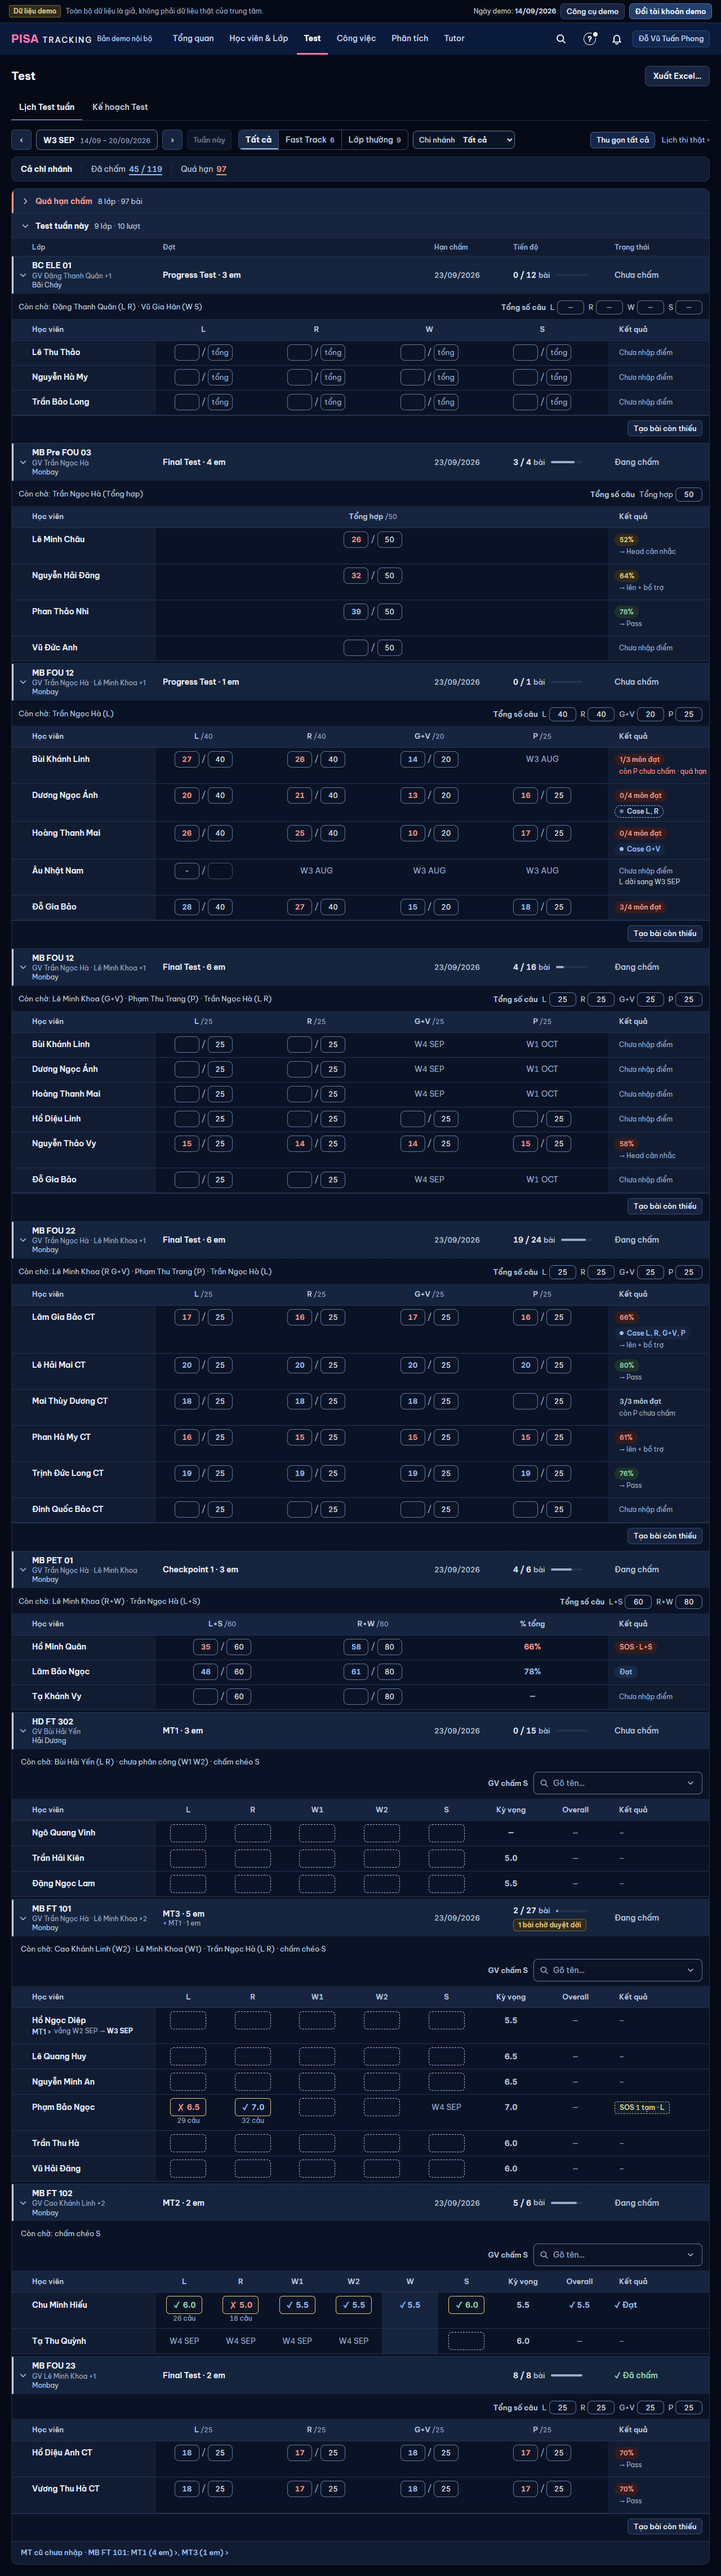
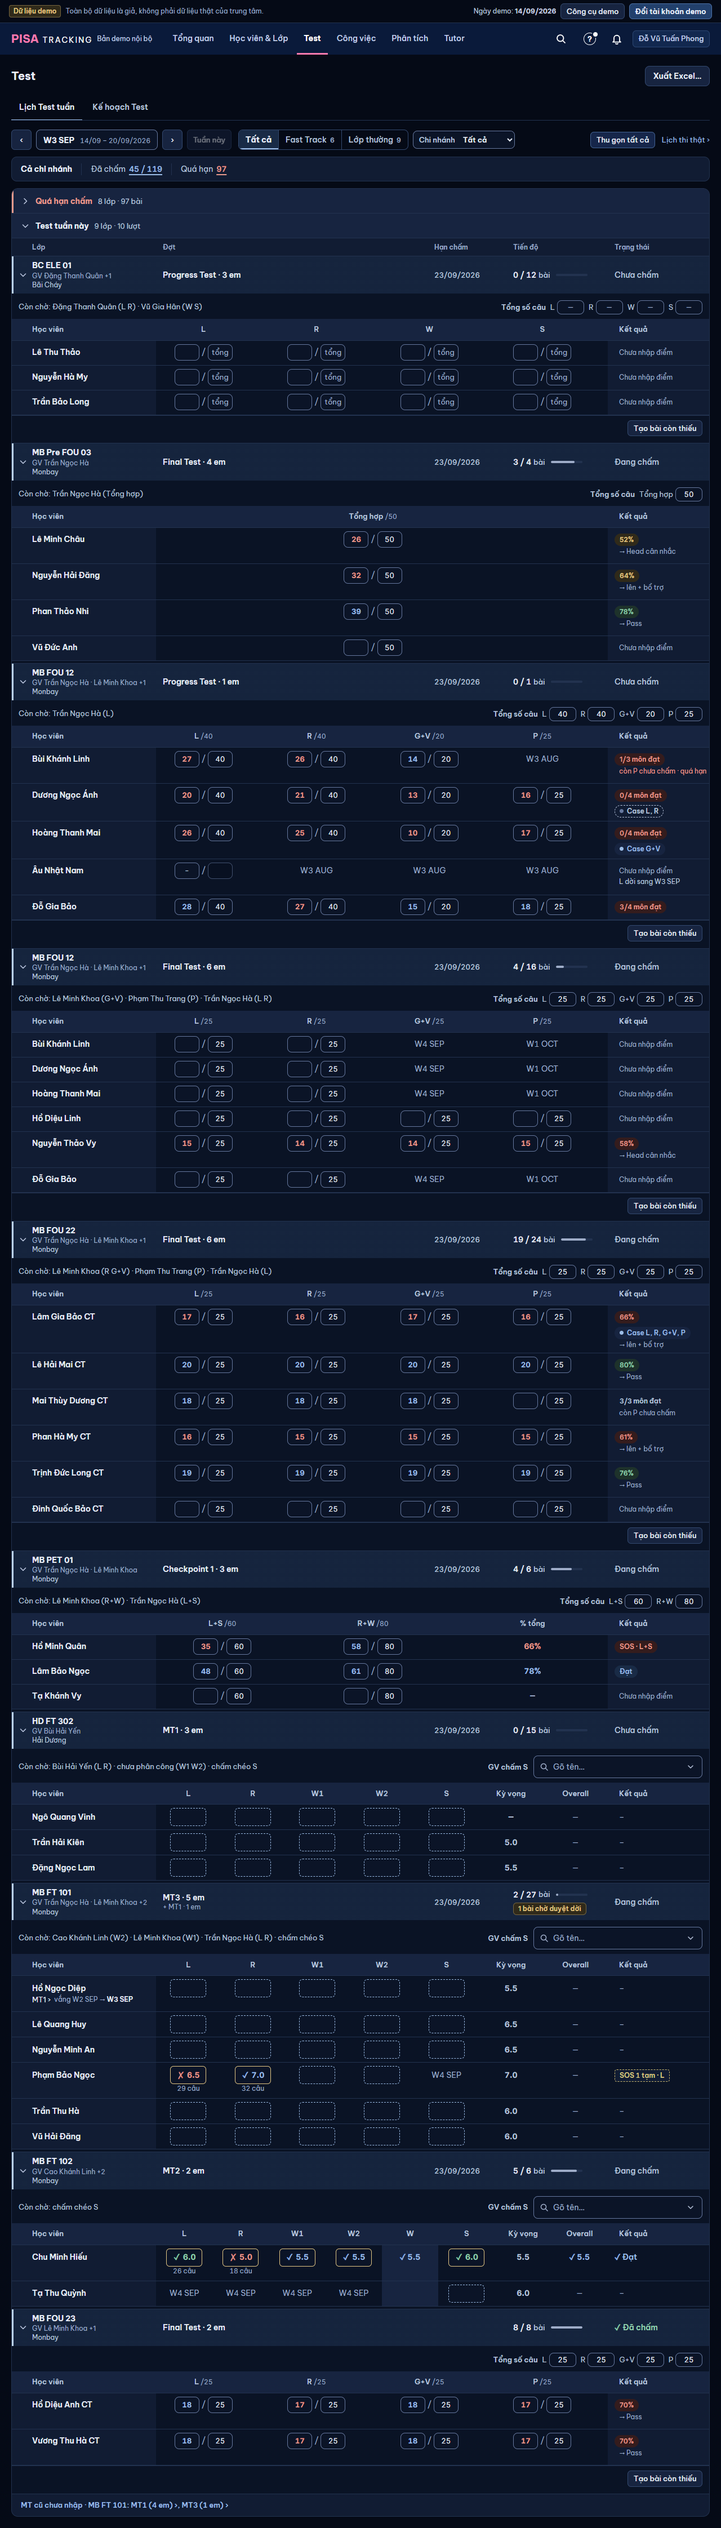
LUOI-1DONG: lưới FT — Còn chờ trái, GV chấm S phải cùng một dòng

Changed region(s): [[0.0, 0.0, 1.0, 0.9984], [0.8125, 0.0, 0.9688, 0.0624], [0.5625, 0.936, 0.625, 0.9672]]

diff --git a/web/src/modules/cham/LuoiFT.tsx b/web/src/modules/cham/LuoiFT.tsx
@@ -1,4 +1,4 @@
-import { useContext, useEffect, useState, type ReactNode } from 'react';
+import { Fragment, useContext, useEffect, useState, type ReactNode } from 'react';
 import { OTrongPanel } from '../../ui/LuoiTrongPanel.tsx';
 import { LOP_DA_LUU } from '../../ui/KhuonViec.tsx';
 import { Link } from 'react-router-dom';
@@ -105,10 +105,25 @@ const W_HINT = t('Band Writing = (Task 1 + Task 2 × 2) / 3, khi đủ hai task.
  * Lịch Test (PR-UX1 Q10): `gon` bỏ cột Trạng thái và Hạn (hàng lớp đã nói), bỏ cột MT khi cả lưới cùng một lượt;
  * `tuanDangXem` làm mờ ô thi tuần khác (`khacTuanFt`).
  */
-export function LuoiFT({ data, onReload, kn = null, hv = null, gon = false, tuanDangXem = null, hangMo = [], chiCot = null, anKetQua = false, sEx, the = false, onHet, gvCham, hienTuan = false }: {
+/** "Còn chờ: A (L R) · B (W S)": mỗi người một khối không ngắt — xuống dòng chỉ giữa hai người (dấu "·" đi theo người sau), không giữa "(W S)". */
+export const ChuConCho = ({ ds }: { ds: string }) => (
+  <>{t('Còn chờ: {ds}', { ds }).split(' · ').map((x, i, a) => <Fragment key={i}><span className="whitespace-nowrap">{i > 0 && '· '}{x}</span>{i < a.length - 1 && ' '}</Fragment>)}</>
+);
+
+/** Dòng công cụ lưới FT: trái "Còn chờ", phải (nguyên khối, hết chỗ thì cả khối xuống dưới) chú giải + ô "GV chấm S". */
+const ThanhGv = ({ conCho, phai, className }: { conCho: string; phai: ReactNode; className: string }) => (
+  <div className={`flex flex-wrap items-center gap-x-4 gap-y-1 px-3 ${className}`}>
+    {conCho && <span className="min-w-0 text-[13px] leading-snug text-dim"><ChuConCho ds={conCho} /></span>}
+    {phai && <span className="ml-auto inline-flex flex-wrap items-center justify-end gap-x-4 gap-y-1">{phai}</span>}
+  </div>
+);
+
+export function LuoiFT({ data, onReload, kn = null, hv = null, gon = false, tuanDangXem = null, hangMo = [], chiCot = null, anKetQua = false, sEx, the = false, onHet, gvCham, hienTuan = false, conCho = '' }: {
   data: FtSheet; onReload: () => void; kn?: string | null; hv?: number | null;
   /** S-CHEO-CN: lưới nhiều tuần (panel Chấm Speaking) — tuần thi dưới tên em cả khi không vắng (`DongVang`). */
   hienTuan?: boolean;
+  /** Lịch Test: "GV (môn) · … · chấm chéo S" — cùng dòng với "GV chấm S". */
+  conCho?: string;
   gon?: boolean; tuanDangXem?: string | null;
   /** PR-DL: em chưa có lịch lượt này — hàng mờ cuối bảng. */
   hangMo?: HangMo[];
@@ -239,8 +254,12 @@ export function LuoiFT({ data, onReload, kn = null, hv = null, gon = false, tuan
   if (the) {
     return (
       <div>
-        {coKhongHoc && <div className="flex justify-end px-3 py-1"><ChuGiaiKhongHoc /></div>}
-        {nutGv && <div className="flex justify-end px-3 py-1 max-sm:pt-4"><NutGvCham nhan={t('GV chấm S')} value={gvCot} onChange={setGvCot} goiY={data.period ? undefined : GOI_Y_COT_MT} /></div>}
+        {(conCho || coKhongHoc || nutGv) && (
+          <ThanhGv conCho={conCho} className="py-1 max-sm:pt-4" phai={(coKhongHoc || nutGv) && (<>
+            {coKhongHoc && <ChuGiaiKhongHoc />}
+            {nutGv && <NutGvCham nhan={t('GV chấm S')} value={gvCot} onChange={setGvCot} goiY={data.period ? undefined : GOI_Y_COT_MT} />}
+          </>)} />
+        )}
         {rowsHien.map((r) => (
           <TheHv key={r.attemptId} row={r} lop={data.classCode} active={hv !== null && r.studentId === hv} tuanDangXem={tuanDangXem} tuanXem={tuanXem}
             onReload={onReload} gvMacDinh={gvCot} moS={mo?.aid === r.attemptId ? mo.s : null} hop={mo?.aid === r.attemptId ? hop : null} dsLuot={dsLuot}
@@ -265,11 +284,11 @@ export function LuoiFT({ data, onReload, kn = null, hv = null, gon = false, tuan
     <>
     {/* FIX-DTL (chủ sản phẩm 07/10): GV chấm S ở hàng trên bảng (công cụ ngoài khung — BANG-1). */}
     {/* CV-LOI (CV-09): mở từ việc không có S (`chiCot`) → không hiện nút GV chấm S. */}
-    {(coKhongHoc || (nutGv && hien('speaking'))) && (
-      <div className="flex flex-wrap items-center justify-end gap-x-4 gap-y-1 px-3 py-2">
+    {(conCho || coKhongHoc || (nutGv && hien('speaking'))) && (
+      <ThanhGv conCho={conCho} className="py-2" phai={(coKhongHoc || (nutGv && hien('speaking'))) && (<>
         {coKhongHoc && <ChuGiaiKhongHoc />}
         {nutGv && hien('speaking') && <NutGvCham oChon nhan={t('GV chấm S')} value={gvCot} onChange={setGvCot} goiY={data.period ? undefined : GOI_Y_COT_MT} />}
-      </div>
+      </>)} />
     )}
     {/* gon (Điểm theo lớp / Lịch Test) vừa khung → đầu cột dính; đủ cột (Nhập điểm) rộng hơn khung → cuộn ngang trong khung. */}
     <Bang ten={t('Lưới điểm {dot}', { dot: tenDotFt(data) || 'MT' })} cot={cotDs} hang={hangLuoi} khoa={(r) => r.attemptId} day deu the375={false} khung={false} dinh={gon ? '1440' : false}

diff --git a/web/src/modules/cham/LuoiChamLop.tsx b/web/src/modules/cham/LuoiChamLop.tsx
@@ -2,8 +2,8 @@ import { useCallback, useContext, useEffect, useMemo, useRef, useState, type Rea
 import { OTrongPanel } from '../../ui/LuoiTrongPanel.tsx';
 import { BaoLuuContext } from '../../ui/SaveState.tsx';
 import { Card } from '../../ui/ui.tsx';
-import { LuoiFT, type FtSheet, type HangMo, type SExTuan } from './LuoiFT.tsx';
-import { ChuConCho, LuoiThuong, type ThuongSheet } from './LuoiThuong.tsx';
+import { ChuConCho, LuoiFT, type FtSheet, type HangMo, type SExTuan } from './LuoiFT.tsx';
+import { LuoiThuong, type ThuongSheet } from './LuoiThuong.tsx';
 import { MotKyNang } from './MotKyNang.tsx';
 import type { OnHet } from './phienCham.ts';
 import { dongCuaBai, type TomTatLuot } from '@shared/domain/index.ts';
@@ -167,13 +167,13 @@ export function LuoiChamLop({
   const theHv = hep && laFt && sEx !== undefined && !xemBang;
   const tungKyNang = hep && !xemBang && !theHv;
   useEffect(() => { onMotKyNang?.(tungKyNang); }, [tungKyNang, onMotKyNang]);
-  const conChoRieng = !(!tungKyNang && !laFt && thuong);
+  const conChoRieng = tungKyNang;   /* lưới đủ cột (FT / thường): "Còn chờ" nằm trong dòng công cụ của chính lưới */
   const luoi = (
     <>
       {conChoRieng && <DongConCho ds={conCho} />}
       {tungKyNang && laFt && ft && <MotKyNang mode="ielts_band" data={ft} onReload={onReload} kn={kn} hv={hv} hangMo={hangMo} tuanDangXem={tuanDangXem} onHet={onHet} />}
       {tungKyNang && !laFt && thuong && <MotKyNang mode="ratio" data={thuong} onReload={onReload} kn={kn} hv={hv} anNutTao={anNutTao} tuanDangXem={tuanDangXem} />}
-      {!tungKyNang && laFt && ft && <LuoiFT data={ft} onReload={onReload} kn={kn} hv={hv} gon={gon} tuanDangXem={tuanDangXem} hangMo={hangMo} chiCot={cotHien} anKetQua={anKetQua} sEx={sEx} the={theHv} onHet={onHet} />}
+      {!tungKyNang && laFt && ft && <LuoiFT data={ft} onReload={onReload} kn={kn} hv={hv} gon={gon} tuanDangXem={tuanDangXem} hangMo={hangMo} chiCot={cotHien} anKetQua={anKetQua} sEx={sEx} the={theHv} onHet={onHet} conCho={conCho} />}
       {!tungKyNang && !laFt && thuong && <LuoiThuong data={thuong} onReload={onReload} kn={kn} hv={hv} tuanDangXem={tuanDangXem} anNutTao={anNutTao} gon={luoiGon} conCho={conCho} />}
     </>
   );

diff --git a/web/src/modules/cham/LuoiThuong.tsx b/web/src/modules/cham/LuoiThuong.tsx
@@ -28,7 +28,7 @@ import { MenuDong } from '../../ui/MenuDong.tsx';
 import { HopThaoTacMt, THAO_TAC_CO_HOP } from '../fasttrack/HopThaoTacMt.tsx';
 import { NganLichSuBai } from './NganLichSuBai.tsx';
 import { useTrongKhung } from '../../ui/KhungPanel.tsx';
-import { DauLuu, DauO, VIEN_LOI } from './LuoiFT.tsx';
+import { ChuConCho, DauLuu, DauO, VIEN_LOI } from './LuoiFT.tsx';
 import { DongThi, LuotChinhContext } from './DongThi.tsx';
 import { HopNhanXetThuong, NutNhanXet } from '../fasttrack/HopNhapDiem.tsx';   /* HopNhanXetThuong: bản nạp lười (TD-WEB-2) — lưới không tải mảnh hộp trước khi mở */
 import { dich, t } from '@shared/i18n/index.ts';
@@ -276,11 +276,6 @@ export function useLuuThuong(attemptId: number, onReload: () => void, ct: string
  * `tuanDangXem` (Lịch Test, PR-UX1 Q10): ô chưa có điểm của môn thi tuần khác → chữ mờ `W4 SEP`, không ô nhập — chưa
  * phải việc của tuần đang xem. Môn mang "-" giữ nguyên ô (có `→ tuần mới`).
  */
-/** "Còn chờ: A (L R) · B (W S)": mỗi người một khối không ngắt — xuống dòng chỉ ở dấu "·", không giữa "(W S)". */
-export const ChuConCho = ({ ds }: { ds: string }) => (
-  <>{t('Còn chờ: {ds}', { ds }).split(' · ').map((x, i, a) => <span key={i} className="whitespace-nowrap">{x}{i < a.length - 1 && ' · '}</span>)}</>
-);
-
 export function LuoiThuong({ data, onReload, kn = null, hv = null, tuanDangXem = null, anNutTao = false, gon = false, conCho = '' }: {
   data: ThuongSheet; onReload: () => void; kn?: string | null; hv?: number | null; tuanDangXem?: string | null;
   /** G1-11 (mockup `thiet-ke/2026-11-13-test-g1/g1-11-nhap-diem.html`, #1434): lưới trong panel việc ~720 px — Kết quả (và % tổng Checkpoint) xuống DƯỚI tên ở cột

diff --git a/docs/anh/luoi-cham-mot-dong/khop-khac.md b/docs/anh/luoi-cham-mot-dong/khop-khac.md
@@ -17,3 +17,11 @@
 - Dấu xanh lá sau dòng "Còn chờ" trong ảnh chủ SP: không có trong DOM / CSS của app (chỉ là nét đánh dấu của chủ SP).
 - Đo DOM (Playwright, Head): 1440 / 1280 / 1024 mỗi hàng một dòng (cao 33 px, 0 tràn); 800: hàng "Còn chờ" dài nhất → khối "Tổng số câu" xuống dưới cả khối, sát phải. 375 dùng màn "từng kỹ năng" (không đổi bố cục).
 - `ponytail:` không thêm. Kiểm: `npm run check` xanh; phép kiểm chuỗi `prUxG` / `prHsm` cập nhật theo.
+
+## Lưới FT (PTA rà #2115) — ảnh `ft-truoc-head-*` | `ft-sau-head-*`
+| Thành phần | TRƯỚC | SAU |
+|---|---|---|
+| "Còn chờ: … · chấm chéo S" | dòng riêng | cùng dòng, trái |
+| Ô "GV chấm S [Gõ tên…]" (+ chú giải em không học) | dòng riêng bên dưới, phải | cùng dòng, sát mép phải; hết chỗ (375) cả khối xuống dưới, sát phải |
+| Xuống dòng của "Còn chờ" | bất kỳ | chỉ giữa hai người, dấu "·" đi theo người sau; không cắt chữ |
+| Lưới cột / ô điểm, panel Công việc | — | không đổi |
